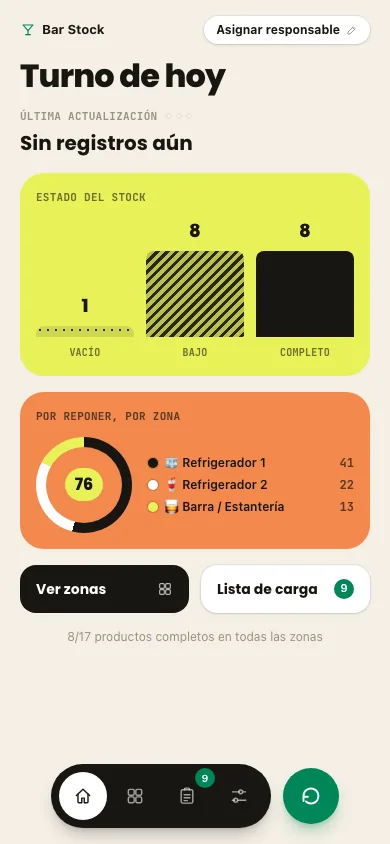
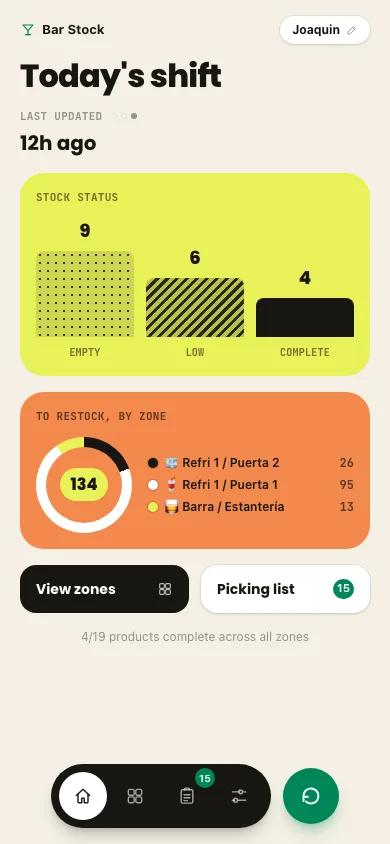
Update RunUp case study screenshots to the English UI
Replaces all three screenshots (home, zone, picking) with fresh
captures of the live production app now that it's translated, and
updates the home screen's alt text to match the new numbers shown.

Claude-Session: https://claude.ai/code/session_01JH2KwqAsVC85CMJ3pF2JKb

diff --git a/src/data/projects.ts b/src/data/projects.ts
@@ -321,7 +321,7 @@ export const projects: Project[] = [
 		images: {
 			cover: {
 				src: '/images/runup/home.webp',
-				alt: "RunUp home screen showing today's shift stock status: 1 empty, 8 low, 8 full, and a restock breakdown by zone.",
+				alt: "RunUp home screen showing today's shift stock status: 9 empty, 6 low, 4 complete, and a restock breakdown by zone.",
 			},
 			process: [
 				{
